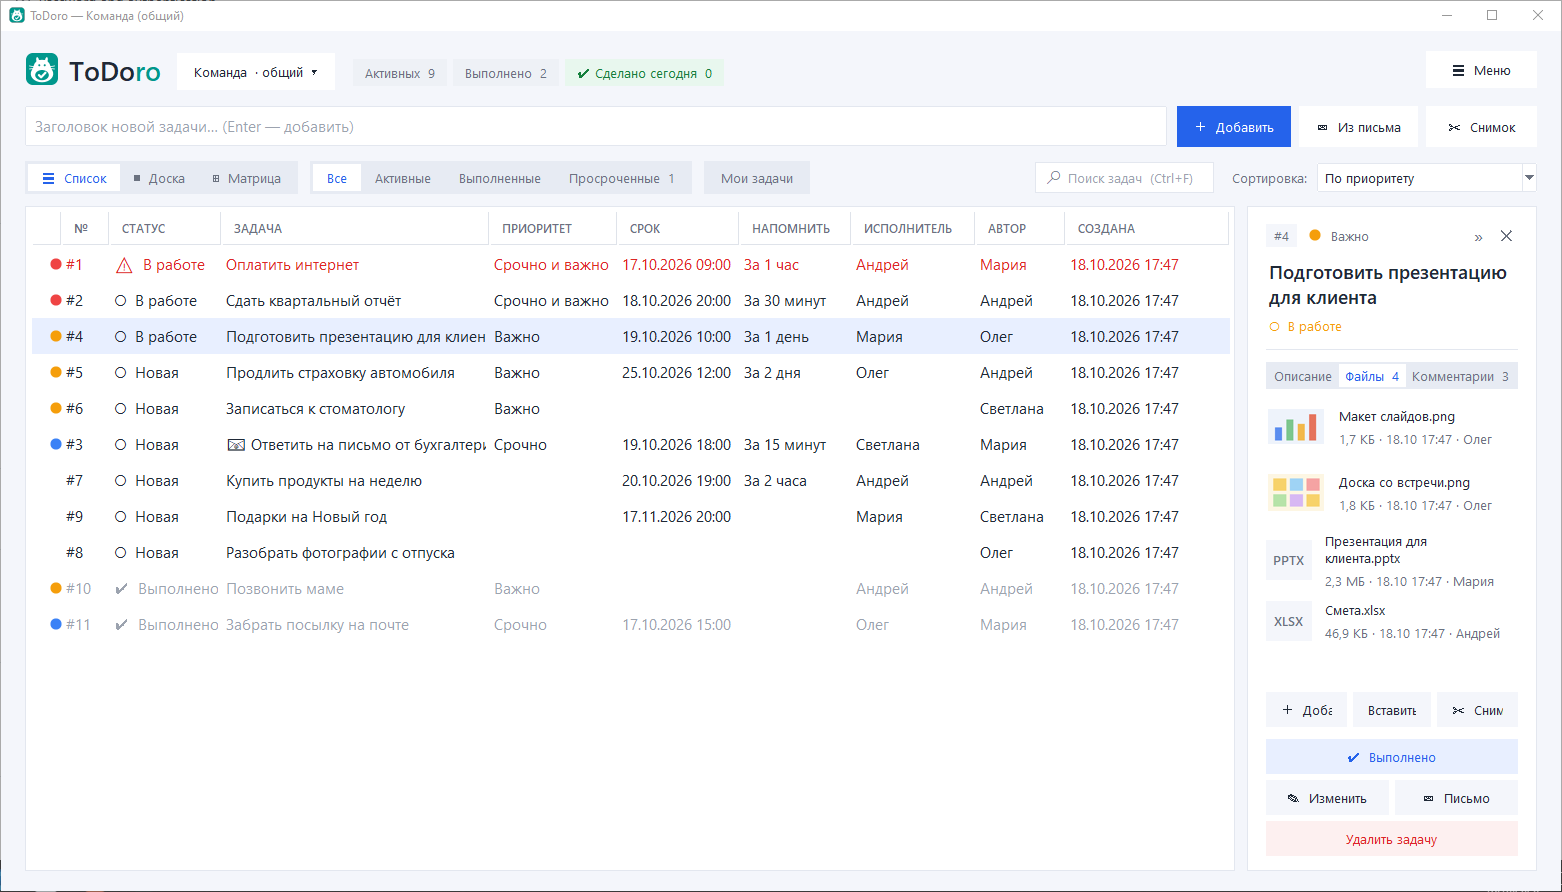
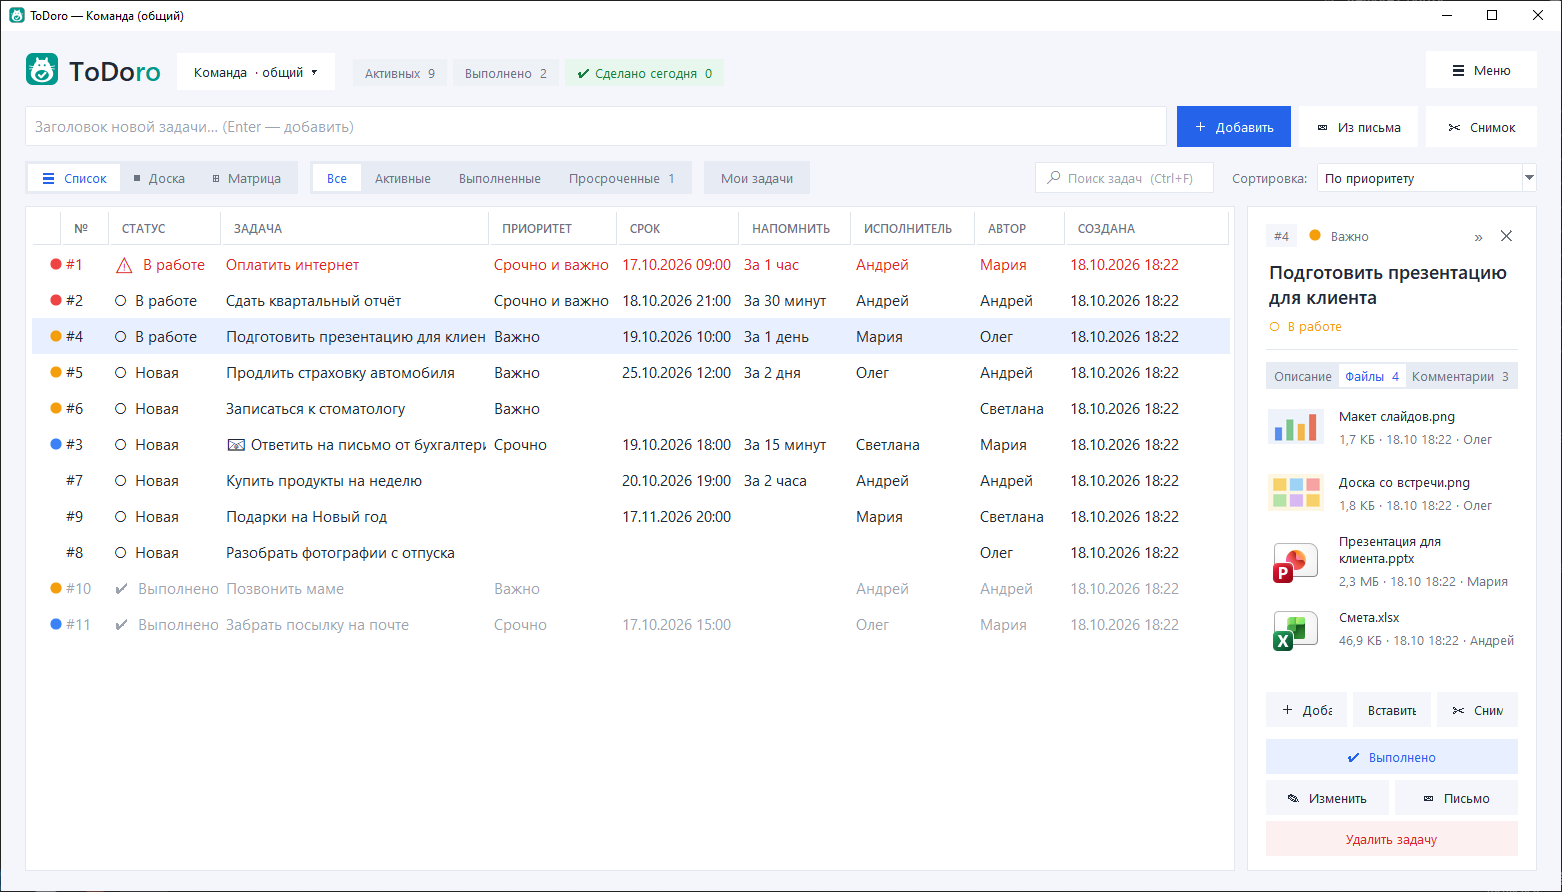
Файлы задачи — со значками как в Проводнике Windows (Word, Excel, PDF…) вместо плашки с расширением; тесты на значки; тесты больше не оставляют временные папки

diff --git a/todoro.py b/todoro.py
@@ -488,6 +488,126 @@ def format_size(size):
         size /= 1024
 
 
+class _SHFileInfo(ctypes.Structure):
+    _fields_ = [("hIcon", ctypes.c_void_p), ("iIcon", ctypes.c_int), ("dwAttributes", wintypes.DWORD),
+                ("szDisplayName", wintypes.WCHAR * 260), ("szTypeName", wintypes.WCHAR * 80)]
+
+
+class _BitmapHeader(ctypes.Structure):
+    _fields_ = [("biSize", wintypes.DWORD), ("biWidth", wintypes.LONG), ("biHeight", wintypes.LONG),
+                ("biPlanes", wintypes.WORD), ("biBitCount", wintypes.WORD),
+                ("biCompression", wintypes.DWORD), ("biSizeImage", wintypes.DWORD),
+                ("biXPelsPerMeter", wintypes.LONG), ("biYPelsPerMeter", wintypes.LONG),
+                ("biClrUsed", wintypes.DWORD), ("biClrImportant", wintypes.DWORD)]
+
+
+class _Guid(ctypes.Structure):
+    _fields_ = [("Data1", wintypes.DWORD), ("Data2", wintypes.WORD), ("Data3", wintypes.WORD),
+                ("Data4", ctypes.c_ubyte * 8)]
+
+
+def _shell_icon_handle(ext):
+    """Значок типа файла из Проводника: (HICON, размер) или (None, 0). Сам файл не нужен —
+    Windows смотрит только на расширение."""
+    shell32 = ctypes.WinDLL("shell32")
+    shell32.SHGetFileInfoW.argtypes = [wintypes.LPCWSTR, wintypes.DWORD, ctypes.POINTER(_SHFileInfo),
+                                       wintypes.UINT, wintypes.UINT]
+    shell32.SHGetFileInfoW.restype = ctypes.c_size_t
+    shell32.SHGetImageList.argtypes = [ctypes.c_int, ctypes.POINTER(_Guid), ctypes.POINTER(ctypes.c_void_p)]
+    shell32.SHGetImageList.restype = ctypes.c_long
+    ctypes.WinDLL("ole32").CoInitialize(None)
+    use_attributes, sys_index, icon_flag = 0x10, 0x4000, 0x100
+    info = _SHFileInfo()
+    if shell32.SHGetFileInfoW("file" + ext, 0x80, ctypes.byref(info), ctypes.sizeof(info),
+                              use_attributes | sys_index):
+        # большой значок 48×48 (как «Крупные значки» в Проводнике) — через IImageList::GetIcon
+        iid = _Guid(0x46EB5926, 0x582E, 0x4017, (ctypes.c_ubyte * 8)(0x9F, 0xDF, 0xE8, 0x99, 0x8D, 0xAA, 0x09, 0x50))
+        images = ctypes.c_void_p()
+        if shell32.SHGetImageList(2, ctypes.byref(iid), ctypes.byref(images)) == 0 and images:
+            table = ctypes.cast(images, ctypes.POINTER(ctypes.POINTER(ctypes.c_void_p))).contents
+            get_icon = ctypes.WINFUNCTYPE(ctypes.c_long, ctypes.c_void_p, ctypes.c_int, wintypes.UINT,
+                                          ctypes.POINTER(ctypes.c_void_p))(table[10])
+            release = ctypes.WINFUNCTYPE(wintypes.ULONG, ctypes.c_void_p)(table[2])
+            icon = ctypes.c_void_p()
+            ok = get_icon(images, info.iIcon, 1, ctypes.byref(icon)) == 0 and icon.value
+            release(images)
+            if ok:
+                return icon.value, 48
+    info = _SHFileInfo()
+    if shell32.SHGetFileInfoW("file" + ext, 0x80, ctypes.byref(info), ctypes.sizeof(info),
+                              use_attributes | icon_flag) and info.hIcon:
+        return info.hIcon, 32
+    return None, 0
+
+
+def _draw_icon(icon, size, fill):
+    """Рисует значок на квадрате цвета fill (0 — чёрный, 255 — белый); байты BGRA."""
+    user32, gdi32 = ctypes.WinDLL("user32"), ctypes.WinDLL("gdi32")
+    gdi32.CreateCompatibleDC.argtypes = [ctypes.c_void_p]
+    gdi32.CreateCompatibleDC.restype = ctypes.c_void_p
+    gdi32.CreateDIBSection.argtypes = [ctypes.c_void_p, ctypes.c_void_p, wintypes.UINT,
+                                       ctypes.POINTER(ctypes.c_void_p), ctypes.c_void_p, wintypes.DWORD]
+    gdi32.CreateDIBSection.restype = ctypes.c_void_p
+    gdi32.SelectObject.argtypes = [ctypes.c_void_p, ctypes.c_void_p]
+    gdi32.SelectObject.restype = ctypes.c_void_p
+    gdi32.DeleteObject.argtypes = [ctypes.c_void_p]
+    gdi32.DeleteDC.argtypes = [ctypes.c_void_p]
+    user32.DrawIconEx.argtypes = [ctypes.c_void_p, ctypes.c_int, ctypes.c_int, ctypes.c_void_p,
+                                  ctypes.c_int, ctypes.c_int, wintypes.UINT, ctypes.c_void_p, wintypes.UINT]
+    header = _BitmapHeader(ctypes.sizeof(_BitmapHeader), size, -size, 1, 32, 0, 0, 0, 0, 0, 0)
+    dc = gdi32.CreateCompatibleDC(None)
+    bits = ctypes.c_void_p()
+    bitmap = gdi32.CreateDIBSection(dc, ctypes.byref(header), 0, ctypes.byref(bits), None, 0)
+    try:
+        if not bitmap or not bits.value:
+            return None
+        old = gdi32.SelectObject(dc, bitmap)
+        ctypes.memset(bits, fill, size * size * 4)
+        user32.DrawIconEx(dc, 0, 0, icon, size, size, 0, None, 3)
+        gdi32.GdiFlush()
+        data = ctypes.string_at(bits, size * size * 4)
+        gdi32.SelectObject(dc, old)
+        return data
+    finally:
+        if bitmap:
+            gdi32.DeleteObject(bitmap)
+        gdi32.DeleteDC(dc)
+
+
+def file_type_icon(name):
+    """Значок типа файла таким, как его показывает Проводник Windows (картинка PIL RGBA),
+    или None — не Windows, нет Pillow или Windows не дала значок."""
+    if sys.platform != "win32":
+        return None
+    ext = Path(file_name_for_disk(name)).suffix.lower()
+    if not re.fullmatch(r"\.[\w\-]{1,15}", ext):
+        ext = ".file"
+    try:
+        from PIL import Image
+        icon, size = _shell_icon_handle(ext)
+        if not icon:
+            return None
+        try:
+            black, white = _draw_icon(icon, size, 0), _draw_icon(icon, size, 255)
+        finally:
+            ctypes.WinDLL("user32").DestroyIcon(ctypes.c_void_p(icon))
+        if not black or not white:
+            return None
+        # прозрачность узнаём по разнице рисунка на чёрном и на белом — так верно и для
+        # новых значков с полупрозрачными краями, и для старых с маской
+        pixels = bytearray(size * size * 4)
+        for i in range(0, len(black), 4):
+            alpha = 255 - max(0, min(255, white[i + 1] - black[i + 1]))
+            if alpha:
+                pixels[i] = min(255, black[i + 2] * 255 // alpha)
+                pixels[i + 1] = min(255, black[i + 1] * 255 // alpha)
+                pixels[i + 2] = min(255, black[i] * 255 // alpha)
+                pixels[i + 3] = alpha
+        return Image.frombytes("RGBA", (size, size), bytes(pixels))
+    except Exception:  # noqa: BLE001 — значок лишь украшение: без него покажем плашку с расширением
+        return None
+
+
 def short_time(stamp):
     """'2026-10-17 14:05:33' -> '17.10 14:05' (год — только если не нынешний)."""
     when = datetime.fromisoformat(stamp)
@@ -2363,6 +2483,7 @@ class TaskCard(tk.Frame):
         self.files_area = ScrollArea(page, SURFACE)
         self.files_area.pack(fill="both", expand=True)
         self.thumbs = {}  # id вложения -> картинка-превью (иначе Tk её «забудет»)
+        self.type_icons = {}  # расширение -> значок типа файла из Проводника (или None)
         self.file_labels = []
         self.files_area.inner.bind("<Configure>", lambda e: [
             label.configure(wraplength=max(e.width - 80, 120)) for label in self.file_labels], add="+")
@@ -2441,7 +2562,7 @@ class TaskCard(tk.Frame):
         for attachment_id, name, size, added_by, added_at in files:
             row = tk.Frame(inner, bg=SURFACE, cursor="hand2")
             row.pack(fill="x", pady=(0, 6))
-            thumb = self.thumbnail(attachment_id, name)
+            thumb = self.thumbnail(attachment_id, name) or self.type_icon(name)
             if thumb:
                 preview = tk.Label(row, image=thumb, bg=SURFACE, width=56, height=56)
             else:
@@ -2482,6 +2603,18 @@ class TaskCard(tk.Frame):
                 thumb = None
         self.thumbs[attachment_id] = thumb
         return thumb
+
+    def type_icon(self, name):
+        """Значок типа файла, как в Проводнике (или None — покажем плашку с расширением)."""
+        ext = Path(file_name_for_disk(name)).suffix.lower()
+        if ext not in self.type_icons:
+            icon = file_type_icon(name)
+            try:
+                from PIL import ImageTk
+                self.type_icons[ext] = ImageTk.PhotoImage(icon) if icon else None
+            except Exception:  # noqa: BLE001 — нет Pillow: без значка
+                self.type_icons[ext] = None
+        return self.type_icons[ext]
 
     def paste(self):
         if self.task_id is not None:

diff --git a/tests/test_file_icons.py b/tests/test_file_icons.py
@@ -1,0 +1,174 @@
+"""Значки типа файла во вкладке «Файлы» карточки задачи: file_type_icon берёт значок из
+Проводника Windows (через ctypes), а при любой беде возвращает None — тогда карточка покажет
+плашку с расширением. Окна не открываются, файлы не создаются."""
+
+import sys
+import types
+import unittest
+from pathlib import Path
+from unittest import mock
+
+sys.path.insert(0, str(Path(__file__).resolve().parent.parent))
+
+import todoro  # noqa: E402
+
+try:
+    import PIL  # noqa: F401
+    HAVE_PIL = True
+except ImportError:
+    HAVE_PIL = False
+
+ON_WINDOWS = sys.platform == "win32"
+
+
+@unittest.skipUnless(ON_WINDOWS, "значки Проводника есть только в Windows")
+@unittest.skipUnless(HAVE_PIL, "нужен Pillow")
+class FileTypeIconWindowsTests(unittest.TestCase):
+    NAMES = [
+        "доклад.pptx",
+        "бюджет.xlsx",
+        "договор.PDF",
+        "README",                                  # без расширения
+        'странный.a<b>:c|d?*',                     # запрещённые в Windows знаки
+        "очень." + "x" * 300,                      # очень длинное расширение
+        "а" * 5000 + ".docx",                      # очень длинное имя
+        "",                                        # пустое имя
+        None,                                      # имени нет вовсе
+        "точка в конце.txt. ",                     # Windows молча обрезает точки и пробелы
+    ]
+
+    def check_icon(self, image):
+        self.assertIsNotNone(image)
+        self.assertEqual(image.mode, "RGBA")
+        self.assertIn(image.size, [(48, 48), (32, 32)])
+        alphas = set(image.getchannel("A").getdata())
+        self.assertIn(0, alphas, "у значка нет прозрачного фона")
+        self.assertTrue(any(a > 0 for a in alphas), "значок целиком прозрачный")
+
+    def test_icons_for_various_names(self):
+        for name in self.NAMES:
+            with self.subTest(name=name if name is None or len(name) < 40 else name[:40] + "…"):
+                self.check_icon(todoro.file_type_icon(name))
+
+    def test_icon_has_opaque_pixels(self):
+        """У настоящего значка есть совсем непрозрачная середина, а не только полупрозрачные края."""
+        image = todoro.file_type_icon("отчёт.pdf")
+        self.check_icon(image)
+        self.assertIn(255, set(image.getchannel("A").getdata()))
+
+    def test_repeated_calls_do_not_leak(self):
+        """Много вызовов подряд (значки уничтожаются через DestroyIcon) — без сбоев."""
+        for _ in range(50):
+            self.check_icon(todoro.file_type_icon("a.xlsx"))
+
+    def test_fallback_32_when_shell_gives_small_icon(self):
+        """Если большой список значков недоступен — годится значок 32×32."""
+        real = todoro._shell_icon_handle
+
+        def small_only(ext):
+            icon, size = real(ext)
+            if size == 48:
+                todoro.ctypes.WinDLL("user32").DestroyIcon(todoro.ctypes.c_void_p(icon))
+            return real_small(ext)
+
+        def real_small(ext):
+            shell32 = todoro.ctypes.WinDLL("shell32")
+            info = todoro._SHFileInfo()
+            ok = shell32.SHGetFileInfoW("file" + ext, 0x80, todoro.ctypes.byref(info),
+                                        todoro.ctypes.sizeof(info), 0x10 | 0x100)
+            return (info.hIcon, 32) if ok and info.hIcon else (None, 0)
+
+        with mock.patch.object(todoro, "_shell_icon_handle", side_effect=small_only):
+            image = todoro.file_type_icon("x.pdf")
+        self.check_icon(image)
+        self.assertEqual(image.size, (32, 32))
+
+
+class FileTypeIconFailureTests(unittest.TestCase):
+    def test_exception_inside_gives_none(self):
+        with mock.patch.object(todoro, "_shell_icon_handle", side_effect=OSError("сломалось")):
+            self.assertIsNone(todoro.file_type_icon("a.pptx"))
+
+    def test_no_icon_from_windows_gives_none(self):
+        with mock.patch.object(todoro, "_shell_icon_handle", return_value=(None, 0)):
+            self.assertIsNone(todoro.file_type_icon("a.pptx"))
+
+    def test_drawing_failure_gives_none(self):
+        """Не удалось нарисовать значок — None, а сам значок всё равно уничтожен."""
+        destroyed = []
+        fake_user32 = types.SimpleNamespace(DestroyIcon=lambda h: destroyed.append(h))
+        real_windll = todoro.ctypes.WinDLL
+
+        def windll(name, *args, **kwargs):
+            return fake_user32 if name == "user32" else real_windll(name, *args, **kwargs)
+
+        with mock.patch.object(todoro, "_shell_icon_handle", return_value=(12345, 48)), \
+                mock.patch.object(todoro, "_draw_icon", return_value=None), \
+                mock.patch.object(todoro.ctypes, "WinDLL", side_effect=windll):
+            self.assertIsNone(todoro.file_type_icon("a.pptx"))
+        self.assertEqual(len(destroyed), 1)
+
+    def test_not_windows_gives_none(self):
+        with mock.patch.object(todoro.sys, "platform", "linux"), \
+                mock.patch.object(todoro, "_shell_icon_handle") as handle:
+            self.assertIsNone(todoro.file_type_icon("a.pptx"))
+        handle.assert_not_called()
+
+    def test_no_pillow_gives_none(self):
+        with mock.patch.dict(sys.modules, {"PIL": None}), \
+                mock.patch.object(todoro, "_shell_icon_handle", return_value=(1, 48)) as handle:
+            self.assertIsNone(todoro.file_type_icon("a.pptx"))
+        handle.assert_not_called()
+
+    def test_strange_extension_becomes_generic(self):
+        """Слишком длинное расширение или с пробелом в Windows не уходит; запрещённые знаки
+        заменяются на «_», как при сохранении файла."""
+        seen = []
+
+        def handle(ext):
+            seen.append(ext)
+            return None, 0
+
+        with mock.patch.object(todoro, "_shell_icon_handle", side_effect=handle), \
+                mock.patch.object(todoro.sys, "platform", "win32"):
+            for name in ["a.pptx", "a.PDF", "README", "a.x" + "y" * 100, "a.b c", "a.<>", None]:
+                todoro.file_type_icon(name)
+        self.assertEqual(seen, [".pptx", ".pdf", ".file", ".file", ".file", ".__", ".file"])
+
+
+class TypeIconCacheTests(unittest.TestCase):
+    """TaskCard.type_icon спрашивает Проводник один раз на расширение."""
+
+    def card(self):
+        return types.SimpleNamespace(type_icons={})
+
+    def test_one_call_per_extension(self):
+        card = self.card()
+        fake_photo = mock.MagicMock(side_effect=lambda img: ("photo", img))
+        with mock.patch.object(todoro, "file_type_icon", side_effect=lambda n: "img:" + n) as icon, \
+                mock.patch("PIL.ImageTk.PhotoImage", fake_photo):
+            first = todoro.TaskCard.type_icon(card, "a.pptx")
+            second = todoro.TaskCard.type_icon(card, "b.PPTX")
+            third = todoro.TaskCard.type_icon(card, "c.xlsx")
+        self.assertIs(first, second)
+        self.assertIsNot(first, third)
+        self.assertEqual(icon.call_count, 2)
+        self.assertEqual(set(card.type_icons), {".pptx", ".xlsx"})
+
+    def test_none_is_cached_too(self):
+        card = self.card()
+        with mock.patch.object(todoro, "file_type_icon", return_value=None) as icon:
+            self.assertIsNone(todoro.TaskCard.type_icon(card, "a.zip"))
+            self.assertIsNone(todoro.TaskCard.type_icon(card, "b.zip"))
+        self.assertEqual(icon.call_count, 1)
+        self.assertEqual(card.type_icons, {".zip": None})
+
+    def test_photo_failure_gives_none(self):
+        card = self.card()
+        with mock.patch.object(todoro, "file_type_icon", return_value="img"), \
+                mock.patch("PIL.ImageTk.PhotoImage", side_effect=RuntimeError("нет Tk")):
+            self.assertIsNone(todoro.TaskCard.type_icon(card, "a.doc"))
+
+
+if __name__ == "__main__":
+    unittest.main()

diff --git a/tests/test_phone.py b/tests/test_phone.py
@@ -2,6 +2,7 @@
 
 Запуск из папки проекта:  python -m unittest discover tests
 """
+import gc
 import json
 import shutil
 import socket
@@ -26,6 +27,9 @@ import team  # noqa: E402
 class PhoneServerTests(unittest.TestCase):
     def setUp(self):
         self.dir = Path(tempfile.mkdtemp(prefix="todoro-phone-"))
+        # удаляем папку последней — после store.close() и прочих addCleanup, иначе Windows
+        # не даст удалить ещё открытые файлы и папка останется во временной папке
+        self.addCleanup(self.remove_dir)
         self.prefs_path = self.dir / "todoro.db"
         prefs = db.connect(self.prefs_path)
         db.set_setting(prefs, "user_name", "Аня")
@@ -40,6 +44,9 @@ class PhoneServerTests(unittest.TestCase):
         self.server.shutdown()
         self.server.server_close()
         self.thread.join(5)
+
+    def remove_dir(self):
+        gc.collect()  # закрыть забытые подключения SQLite
         shutil.rmtree(self.dir, ignore_errors=True)
 
     def call(self, method, path, data=None, raw=None, token=None):

diff --git a/tests/test_core.py b/tests/test_core.py
@@ -3,6 +3,7 @@
 Запуск из папки проекта:  python -m unittest discover tests
 Работают на временных файлах — данные пользователя не трогают.
 """
+import gc
 import shutil
 import sqlite3
 import sys
@@ -25,6 +26,9 @@ class TempDir(unittest.TestCase):
         self.dir = Path(tempfile.mkdtemp(prefix="todoro-test-"))
 
     def tearDown(self):
+        # незакрытые подключения SQLite держат файлы, и Windows не даёт удалить папку:
+        # сборка мусора закрывает их, иначе папки копятся во временной папке Windows
+        gc.collect()
         shutil.rmtree(self.dir, ignore_errors=True)
 
 

diff --git a/RELEASE_NOTES.md b/RELEASE_NOTES.md
@@ -3,6 +3,10 @@
 Здесь записано, что менялось от версии к версии. Новые записи — сверху.
 Скачать установщик любой версии: https://github.com/machinist-soft/ToDoro/releases
 
+## Не выпущено
+
+- Файлы задачи показываются с такими же значками, как в Проводнике Windows (Word, Excel, PDF…), а не с серой плашкой с расширением.
+
 ## 2.18 — 18.10.2026
 
 ### Новое
